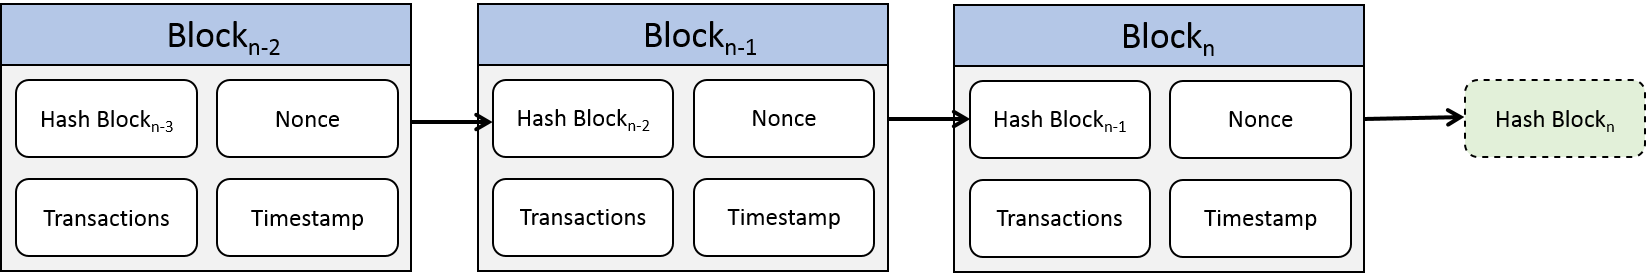
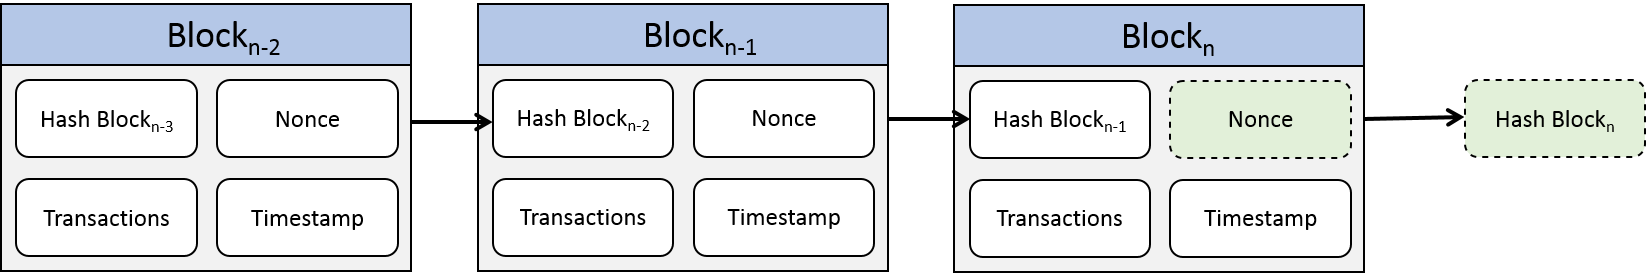
Blockchain: Architektur und Funktion, v1.0

Changed region(s): [[0.7126, 0.293, 0.8366, 0.5861]]

diff --git a/docs/blockchain/technologie/README.md b/docs/blockchain/technologie/README.md
@@ -4,13 +4,18 @@
 ## Architektur und Funktionsweise
 Autor: Sebastian Janzen
 
-Der Aufbau einer Blockchain ist eine Blocksequenz in denen die komplette Transaktionshistorie festgehalten wird, wie zum Beispiel einem öffentlichen Konto. Jeder Block zeigt auf den Vorgänger bis auf den ersten Block einer Blockchain, den sogenannten "Genesisblock". <a>[[ZHENG17]](#ref_Zheng17)</a>
+Was ist eine Blockchain?  
+Es gibt mehrere Definitionen, da die Entwicklung der Blockchain noch recht jung ist. Eine Definition besagt, dass es ein elektronischer Register für Datensätze, Ereignisse oder Transaktionen ist, wo die Teilnehmer eines Netzwerkes diesen verwalten. Eine andere Definition ist, dass Blockchain eine Datenbank ist in welcher Einträge in Blöcken gruppiert werden. Aus diesen Definitionen geht hervor, dass Blockchain-Systeme den verteilten Systemen angehören. <a>[[SCHL16]](#ref_Schl16)</a>
+
+Der Aufbau einer Blockchain ist eine Blocksequenz in denen die komplette Transaktionshistorie festgehalten wird, wie zum Beispiel einem öffentlichen Konto. Jeder Block zeigt auf den Vorgänger die ganze Blockkette entlang bis auf den ersten Block einer Blockchain, den sogenannten "Genesisblock". <a>[[ZHENG17]](#ref_Zheng17)</a>
+
+Die Abbildung "Blockchain Architektur" zeigt, dass eine zufällige Zeichenkette (Nonce) solange iteriert wird, bis ihr Hashwert den Zielvorgaben des Netzwerkes entspricht. Ist dies der Fall, kommt der Block in die Blockchain. <a>[[ANDE16]](#ref_Ande16)</a>
 
 ![blockchain_architecture](./images/blockchain_architecture.png "Blockchain Architektur")
 
 _Blockchain Architektur_ Abbildung angepasst aus <a>[[ANDE16]](#ref_Ande16)</a>
 
->___!!!Das nächste Unterkapitel "Block" überschneidet sich mit dem Unterkapitel "Blöcke" von Björn. Bleibt erstmal so stehen, wir entscheiden später wie wir vorgehen!!!___ 
+>___<font color="orange">Das nächste Unterkapitel "Block" überschneidet sich mit dem Unterkapitel "Blöcke" von Björn. Bleibt erstmal so stehen, wir entscheiden später wie wir vorgehen!!!</font>___ 
 
 ### Block
 
@@ -19,19 +24,23 @@ _Blockchain Architektur_ Abbildung angepasst aus <a>[[ANDE16]](#ref_Ande16)</a>
 _Blockchain Block_, Abbildung angepasst aus <a>[[ZHENG17]](#ref_Zheng17)</a>
 
 Der Block besteht aus einem Blockheader und Blockbody.
-In den Blockheader gehören:
-- Block version: &nbsp;&nbsp;&nbsp;&nbsp;		Beinhaltet die Regeln für die Validierung eines Blocks
-- Merkle tree root hash: &nbsp;&nbsp;&nbsp;		Ist der Hashwert aller Transaktionen im Block
-- Timestamp: &nbsp;&nbsp;&nbsp;&nbsp;&nbsp;		Aktueller Zeitstempel in Sekunden
-- nBits: &nbsp;&nbsp;&nbsp;&nbsp;&nbsp;&nbsp;	
-- Nonce: &nbsp;&nbsp;&nbsp;&nbsp;&nbsp;&nbsp;	Ist ein 4-Byte Feld, welches üblicherweise mit Null anfängt und pro Hashkalkulation inkrementiert
-- Parent block hash: &nbsp;&nbsp;&nbsp;&nbsp;	Ist ein 256-Bit Hashwert das auf den Vorgänger zeigt (siehe Abbildung _Blockchain Architektur_) 
+In den Blockheader gehören: <a>[[ZHENG17]](#ref_Zheng17)</a>
+- __Block version:__			Beinhaltet die Regeln für die Validierung eines Blocks
+- __Merkle tree root hash:__	Ist der Hashwert aller Transaktionen im Block
+- __Timestamp:__				Aktueller Zeitwert in Sekunden seit 01.01.1970
+- __nBits:__ 					Schwellwert eines Hashes ab dem ein Block als valide gilt
+- __Nonce:__					Ist ein 4-Byte Feld, welches üblicherweise mit Null anfängt und pro Hashkalkulation inkrementiert
+- __Parent block hash:__		Ist ein 256-Bit Hashwert das auf den Vorgänger zeigt
+
+Der Body besteht aus dem Transaktionszähler und den Transaktionen selbst. Je nach Block- und Transaktionsgröße variiert die Anzahl der Transaktionen im Block. Zur Verifizierung von Transaktionen dient asymmetrische Kryptografie. <a>[[ZHENG17]](#ref_Zheng17)</a>
 
 ### Digitale Signatur
 
 Jeder Benutzer besitzt ein Schlüsselpaar aus einem öffentlichen Schlüssel und einem privaten Schlüssel. Damit kann eine digitale Signatur generiert werden. Eine Nachricht oder Transaktion wird mit dem privaten Schlüssel signiert und an den Empfänger gesendet, der die Echtheit der Nachricht mit dem öffentlichen Schlüssel anhand der Signatur überprüfen kann. <a>[[ZHENG17]](#ref_Zheng17)</a>
 
-Aufgrund dessen, dass nur der Absender den privaten Schlüssel kennt, kann so die Authenzität der Nachricht und des Absenders sichergestellt werden. Desweiteren kann die Nachricht nicht durch asymemtrische Verschlüsselung unbemerkt verändert werden. <a>[[SCHL16]](#ref_Schl16)</a>
+Aufgrund dessen, dass nur der Absender den privaten Schlüssel kennt, kann so die Authenzität der Nachricht und des Absenders sichergestellt werden. Des Weiteren kann die Nachricht nicht durch asymemtrische Verschlüsselung unbemerkt verändert werden. <a>[[SCHL16]](#ref_Schl16)</a>
+
+In diesem Unterkapitel wird die digitale Signatur nur am Rande erwähnt. Für mehr Informationen siehe Unterkapitel "Digitale Signaturen" in Kryptografie, Grundlagen.
 
 ### Konzept einer Blockchain
 
@@ -49,7 +58,8 @@ Die Identität eines Benutzers ist geschützt, denn für die Interaktion mit der
 
 __Nachvollziehbarkeit__
 
-Jede Transaktion muss zu einer unverbrauchten Transaktion führen. Wird eine Transaktion in der Blockchain gespeichert, ändert sich der Status aller damit verlinkten unverbrauchten Transaktionen auf verbraucht. Das erlaubt die Transaktionen einfach nachzuverfolgen und zu verifizieren. <a>[[ZHENG17]](#ref_Zheng17)</a>
+Jeder Netzknoten im Netzwerk enthält neben der kompletten Blockchainkopie noch einen Cache (Unspent Transaction Output, UTXO), der die Transaktionsausgänge der Blockchain beinhaltet, die noch nicht für neue Transaktionen verwendet wurden.  Außerdem beinhaltet es eine Datenbank mit unbestätigten Transaktionen, welche nicht in die Blockchain aufgenommen wurden.  
+Wenn die Transaktion den ersten Netzknoten erreicht, prüft dieser über UTXO, ob die in der Transaktion referenzierten Eingänge nicht für andere Transaktionen verwendet wurden. Weiterhin wird die Summe der Eingänge überprüft; sie muss kleiner oder gleich der Summe der Ausgänge sein. Wenn die Signaturen gültig sind, leitet der Knoten die Transaktion an andere Netzknoten weiter. Dort wird die transaktion geprüft und in die Datenbank mit unbestätigten Transaktion aufgenommen. Dieser Vorgang heißt _Transaktionsverifikation_. <a>[[SCHL16]](#ref_Schl16)</a>
 
 ### Arten einer Blockchain 
 
@@ -70,7 +80,7 @@ __Privat und Konsortium__
 
 _Private und Konsortium Blockchains_, Abbildung aus <a>[[DEMUSH]](#ref_Demush)</a>
 
-Wie der Name schon andeutet, sind private Blockchains nicht für jeden sichtbar und zugänglich. Sie werden aufgrund von überschaulichen Anzahl von Knoten viel effektiver verwaltet. Die Schreibrechte an der Blockchain gehören üblicherweise einer einzigen Organisation, die Leserechte können zum Teil oder ganz öffentlich sein. Diese Art von Blockchain heißt _permissioned blockchain_. Die üblichen Verwendungszwecke sind Datenhaltung und Wirtschaftsprüfung im Rahmen einer einzigen Firma.
+Wie der Name schon andeutet, sind private Blockchains nicht für jeden sichtbar und zugänglich. Sie werden aufgrund von überschaulichen Anzahl von Knoten viel effektiver verwaltet. Die Schreibrechte an der Blockchain gehören üblicherweise einer einzigen Organisation, die Leserechte können zum Teil oder ganz öffentlich sein. Diese Art von Blockchain heißt _permissioned blockchain_. Die üblichen Verwendungszwecke sind Datenhaltung und Wirtschaftsprüfung im Rahmen einer einzigen Firma.  
 Konsortium-Blockchains unterscheiden sich insofern von privaten, dass nur vorausgewählte Knoten am Konsensus teilnehmen können. Diese Knoten können einer Gruppe von Banken gehören, wo jede Bank einen Knoten steuert. Wie im Falle der privaten Blockchain, kann das Leserecht teilweise oder ganz öffentlich sein, was dazu führt, dass Teilnehmern außerhalb des Konsortiums eine eingeschränkte Möglichkeit haben über eine API die Block Hashes zu überprüfen. Banken und Unternehmen bekommen damit eine Möglichkeit direkt ihre Vermögenswerte untereinander in Sekunden zu übertragen und die private P2P-Netzwerke zu überwachen. Diese Blockchains werden als teilweise dezentralisiert bezeichnet.
 <a>[[DEMUSH]](#ref_Demush)</a>, <a>[[BUTE15]](#ref_Bute15)</a>
 
@@ -292,4 +302,4 @@ Blockchain-Technologie
 
 <a name="ref_Ghal15">[GHAL15]</a>: Ghalsim, Yacine: Why we should drop the whole “Bitcoin vs blockchain” discussion, 07.10.2015, URL: https://medium.com/@YacineGhalim/why-we-should-drop-the-whole-bitcoin-vs-blockchain-discussion-e3e38e9a5104
 
-<a name="ref_Schl16">[SCHL16]</a>: Schlatt, Vincent; Schweizer, André; Urbach, Nils; Fridgen, Gilbert: Blockchain: Grundlagen, Anwendungen und Potenziale, S. 9-10, Fraunhofer FIT, 12.2016, URL: https://www.fim-rc.de/Paperbibliothek/Veroeffentlicht/642/wi-642.pdf (letzter Zugriff: 04.05.2018)
+<a name="ref_Schl16">[SCHL16]</a>: Schlatt, Vincent; Schweizer, André; Urbach, Nils; Fridgen, Gilbert: Blockchain: Grundlagen, Anwendungen und Potenziale, S. 8-12, Fraunhofer FIT, 12.2016, URL: https://www.fim-rc.de/Paperbibliothek/Veroeffentlicht/642/wi-642.pdf (letzter Zugriff: 04.05.2018)
